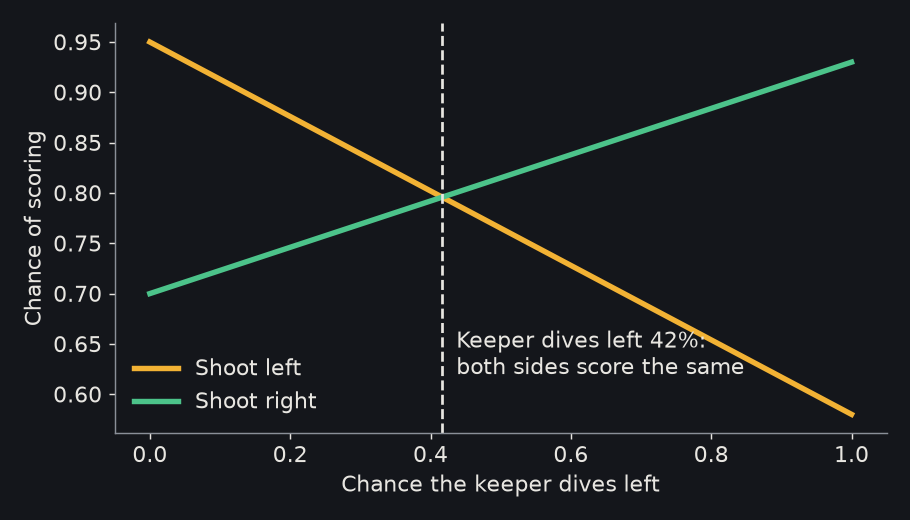
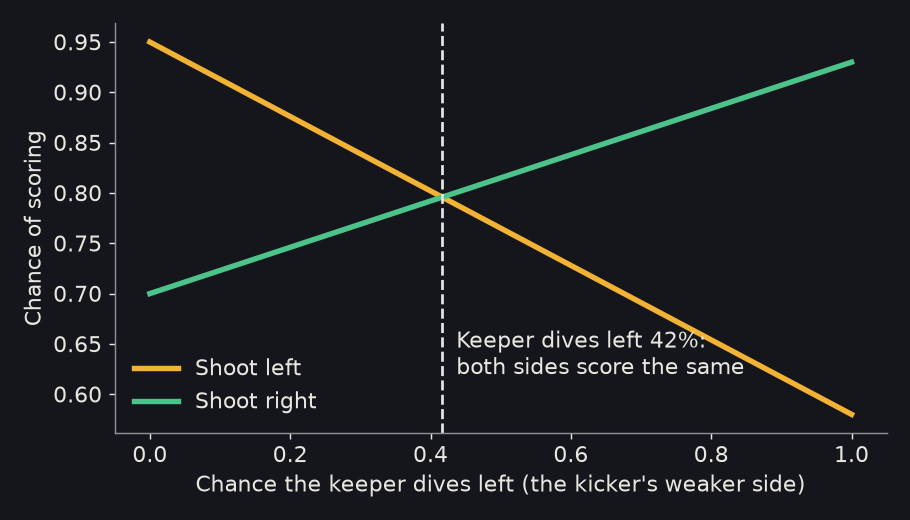
Fact-check and source the economics and game-theory courses (#21)

Changed region(s): [[0.2154, 0.8923, 0.8923, 0.9538]]

diff --git a/docs/econ-factcheck.md b/docs/econ-factcheck.md
@@ -1,0 +1,93 @@
+# Economics and game theory fact-check (Round 9)
+
+Checked November 2026. I verified every factual claim, date, attribution, experiment result and worked answer in `content/courses/economics` and `content/courses/game-theory` against the sources below. I recomputed every payoff, equilibrium and number by hand, and I simulated the game configs with `src/lib/games/*.ts` (200 to 300 seeds for the tournaments).
+
+The generators live outside the repo in `/workspace/gnosis/econgen/`. The edits are in `factcheck_edits.py` and `sources.py`. No lesson or exercise id changed. The two new lessons are appended to module 08 of each course.
+
+Severity levels: **High** means it teaches something wrong or a hint fails. **Medium** means a misattribution, a misleading claim, or an exercise that marks a correct answer wrong. **Low** means imprecise wording or missing context.
+
+## Issues
+
+| # | Sev | Where | Claim | Verdict | Source | Fix |
+|---|---|---|---|---|---|---|
+| 1 | High | econ 07 compounding-race | "₹10,000/month at 12% for 25 years gets there; so does ₹8,000 for 30" (₹50 lakh real at 6% inflation) | Wrong. The game's own `compound()` gives ₹43.8 lakh and ₹48.7 lakh, so both hints fail | Recomputed with `compound()` | ₹10,000 needs 27 years (₹50.0 lakh); ₹8,000 needs about 32 |
+| 2 | High | econ 03 elastic-or-not, "What to remember" | Long-run petrol demand is elastic (card data gave 1.25) | Wrong. Long-run fuel elasticity is about 0.64 on average (0.25 short run) | Goodwin, Dargay & Hanly 2004 | Card data now gives 0.88. Text says petrol gets 2-3x more elastic but stays below 1 |
+| 3 | High | gt 06 axelrod-tournament, clean round | "Always defect gets stonewalled", so TFT and grim finish top 2 | Config bug. Always defect finished top 2 in 75% of seeds, because the field fed it always-cooperate, random and alternator | Simulation, 200 seeds | Added tit-for-two-tats to the field. Now TFT is top 2 in 100% of seeds, grim in 99%, always-defect 0% |
+| 4 | High | gt 03 think-like-the-crowd | Shares are "typical results from class polls" | Invented, except heads/tails (36/42 is Schelling's real figure) | Schelling 1957 JCR footnote | Labelled the shares as estimates. Used Schelling's real number list (7, 100, 13, 261) and his 50-50 split figure (36/41) |
+| 5 | Medium | gt 06 repeated-concepts | "Each played every other for 200 rounds. The winner, both times..." | Wrong for round 2: 62 entries, unknown length averaging 151 moves | Axelrod 1980a/b; Axelrod 1984 | Described both tournaments correctly |
+| 6 | Medium | gt 04 mixed-concepts, penalty table | Rows and columns labelled literal left and right | Palacios-Huerta's L/R mean the kicker's non-natural/natural side. The numbers 58.30/94.97/92.91/69.92 are correct | Palacios-Huerta 2003 | Added the side definition, the kicker mix (38%) and the observed mixes (about 40% and 42%). Updated the diagram label |
+| 7 | Medium | gt 02 beauty-contest | 0 is "the only Nash equilibrium" | With whole numbers 0-100, everyone picking 1 is also an equilibrium | Standard result (e.g. Brown CS1440 notes); Nagel 1995 | Added the note |
+| 8 | Medium | gt 04 hawks-and-doves | Maynard Smith & Price (1973) used hawk and dove | The 1973 paper used five strategies (Mouse, Hawk, Bully, Retaliator, Prober-Retaliator). The two-strategy hawk-dove game came later (Maynard Smith 1982) | Maynard Smith & Price 1973 | Reworded |
+| 9 | Medium | econ 04 test-firms, ordering | Order: MR, then MC, then quantity, then price | The MR and MC steps can be swapped, so a correct order was marked wrong | Logic | Merged them into one step and added "find the demand curve" first |
+| 10 | Low | econ 07 inflation-eats | Aunt keeps real value iff inflation is 6.5% or less | The game compounds monthly (6.70% a year), so the threshold is about 6.7% | `compound()` | Explained it |
+| 11 | Low | gt 02 beauty-contest hint | Round-1 winners pick 20 to 25 | The bot crowd's target is 19-22 across seeds | Simulation | Changed to 19 to 22 |
+| 12 | Low | gt 02 beauty-contest | "Nagel ran this number version ... in 1995" | Published 1995. Nagel's p=2/3 first round had mean 36.73, median 33 and no zeros (all confirmed) | Nagel 1995 AER | Reworded and added the median |
+| 13 | Low | gt 08 fairness-concepts + test | Proposers offer "about 40% on average" | Mode and median are 40-50%, the mean 30-40%. Offers under 20% are rejected about half the time | Camerer 2003; Güth et al. 1982 | Reworded; test option is now "30-50%" |
+| 14 | Low | gt 03 nash-concepts | "Most of his students chose Grand Central at noon" | An absolute majority of an informal New Haven sample chose the Grand Central information booth; nearly all chose noon | Schelling 1957/1960 | Reworded |
+| 15 | Low | econ 06 failure-concepts | Tragedy of the commons "named by Hardin in 1968" | Hardin named it. The idea is from W. F. Lloyd (1833) | Hardin 1968 | Added Lloyd |
+| 16 | Low | gt 01 monty-hall | Host rules unstated | 2/3 holds only if the host always opens a goat door and always offers the switch | Selvin 1975; vos Savant 1990 | Stated the rules and added a source note |
+| 17 | Low | econ 08 macro-concepts | Recession "often defined as two quarters in a row" | A rule of thumb, not official (the NBER uses several measures) | NBER; OpenStax | Reworded |
+| 18 | Low | gt 07 auction-concepts | Online ad auctions are "close cousins" of Vickrey | Search ads used generalised second-price; most display ads moved to first price around 2019 | Industry record | Reworded |
+| 19 | Low | gt 07 auction-concepts | Revenue equivalence conditions | Needs independent private values from the same distribution. Credit Vickrey 1961 and Myerson 1981 | Osborne ch. 3 | Added |
+| 20 | Low | gt 05 centipede | Attribution | The game is Rosenthal (1981). McKelvey & Palfrey 1992 found fewer than 1 in 10 take at the first node | McKelvey & Palfrey 1992 | Added |
+| 21 | Low | econ 01 scarcity-concepts | Study-hours example gave only hours 1 and 4 | The answer "3 hours" couldn't be checked | Logic | Listed all four hours |
+| 22 | Low | econ 06 commons and lemons | Ostrom "won", Akerlof "shared" | Ostrom shared 2009 with Williamson; Akerlof shared 2001 with Spence and Stiglitz | nobelprize.org | Reworded |
+| 23 | Low | econ 07 money-concepts | RBI 4% (2-6%) target | Correct, and renewed March 2026 for 2026-2031 | Govt of India / RBI, Mar 2026 | Added the renewal |
+| 24 | Low | econ 08 macro-concepts | Long-run Phillips curve | Correct; added the Friedman 1968 / Phelps attribution | Friedman 1968 | Added |
+| 25 | Low | gt 03 nash-concepts | Stag hunt origin | Correct game; it comes from Rousseau (1755) | SEP | Added |
+
+**Totals: 4 High, 5 Medium, 16 Low (25 issues).**
+
+## Checked and correct (no change)
+
+- **Econ maths and claims:** all of these were correct: opportunity cost and sunk cost items; the bakery (3 workers); the lemonade optimum (5+40)/2 = 22.5 and the 43.75% share; the four market-maker equilibria (10, 14, 17, 13); tax incidence (buyers ₹30→₹32, sellers keep ₹26, so a ₹2/₹4 split, and the supply side is less elastic, 0.75 vs 1.5); and the tax and supply-demand diagrams.
+- **Elasticity:** all midpoint elasticities are right (1.22, 0.43, 1.0), and so are the card values. The revenue peaks are at 200 and 60. Monopoly figures (Q 40, P 60, profit 1,600, CS 800, DWL 800, competitive CS 3,200; 120; Q 30) are right.
+- **Trade:** both trade puzzles are right: the splits, end bundles, price range 0.75-2, and the 11 and 12.7 hours needed alone. Ricardo 1817 is right.
+- **Market failures:** Akerlof 1970, the lemons maths (P/2, 0.75P, 40), the logistic 125 peak, the commons hints (simulated: 4 boats 25-30 is OK and 35+ fails; 6 boats 18-20 is OK and 25 collapses), and the inspection EV (+15k a round) are all right.
+- **Money and macro:** the rule of 72, real rates, the unemployment rate (7.4%), the central bank neutral rate of 3%, and 1.06^30 ≈ 1/5.7 are right.
+- **Game theory basics:** these are right: the PD and stag payoffs; the dominance 3x3 (the solver reaches Top/Centre); all Nash-hunt answers, including the price war (Medium/Medium and Low/Low); and Monty Hall (2/3, 9/10, 99%).
+- **Mixed strategies:** the mixed EV (69%), the penalty keeper mix of 41.7% and score of 79.6% (matches the paper's 41.99%), and hawk-dove V/C (the simulation reaches 0.300 for V=3, C=10) are right. Maynard Smith & Price 1973 is the right citation.
+- **Sequential games:** the entry and launch trees and the centipede (stage-3 take = 12, pot at stage 5 = 64; the component's botTakeAt semantics match the text) are right.
+- **Repeated games:** TFT vs always-defect over 10 rounds scores 9. Exploiting tit-for-two-tats by alternating works. Noisy tournament: TFT is top 3 in 85% of seeds, GTFT 71%, grim 50%, which matches "usually". The GTFT forgiveness of 1/3 is right for these payoffs (Nowak & Sigmund).
+- **Auctions:** Vickrey 1961, bid shading (n−1)/n, and the answers 64 and 45 are right.
+- **Fairness:** ultimatum game totals (35 + 11), Fehr & Gächter 2000 (contributions start at 40-60%, decline, and stay high with punishment), Ostrom's design principles and Hardin 1968 are right.
+
+## Sources
+
+Textbooks:
+
+- CORE Econ, *The Economy 2.0*
+- OpenStax, *Principles of Economics 3e*
+- Mankiw, *Principles of Economics*
+- Osborne, *An Introduction to Game Theory*
+- Dixit & Nalebuff, *The Art of Strategy*
+- SEP entries on game theory and the prisoner's dilemma
+
+Papers and books (links are on the Sources pages):
+
+- Axelrod 1980a/b and 1984
+- Nash 1950
+- Schelling 1957/1960
+- Nagel 1995
+- Palacios-Huerta 2003
+- Maynard Smith & Price 1973
+- McKelvey & Palfrey 1992
+- Nowak & Sigmund 1993
+- Vickrey 1961
+- Capen, Clapp & Campbell 1971
+- Güth et al. 1982
+- Camerer 2003
+- Fehr & Gächter 2000
+- Akerlof 1970
+- Hardin 1968
+- Ostrom 1990
+- Goodwin, Dargay & Hanly 2004
+- Friedman 1968
+- The Government of India / RBI inflation target notification of March 2026
+
+## New pages
+
+- `economics/08-central-banks/04-econ-sources`
+- `game-theory/08-cooperation-and-fairness/04-gt-sources`
+
+Each one has fun 1, cards listing the sources with links, and one MCQ. Short source notes were added inline to the cards that cite a specific result.
